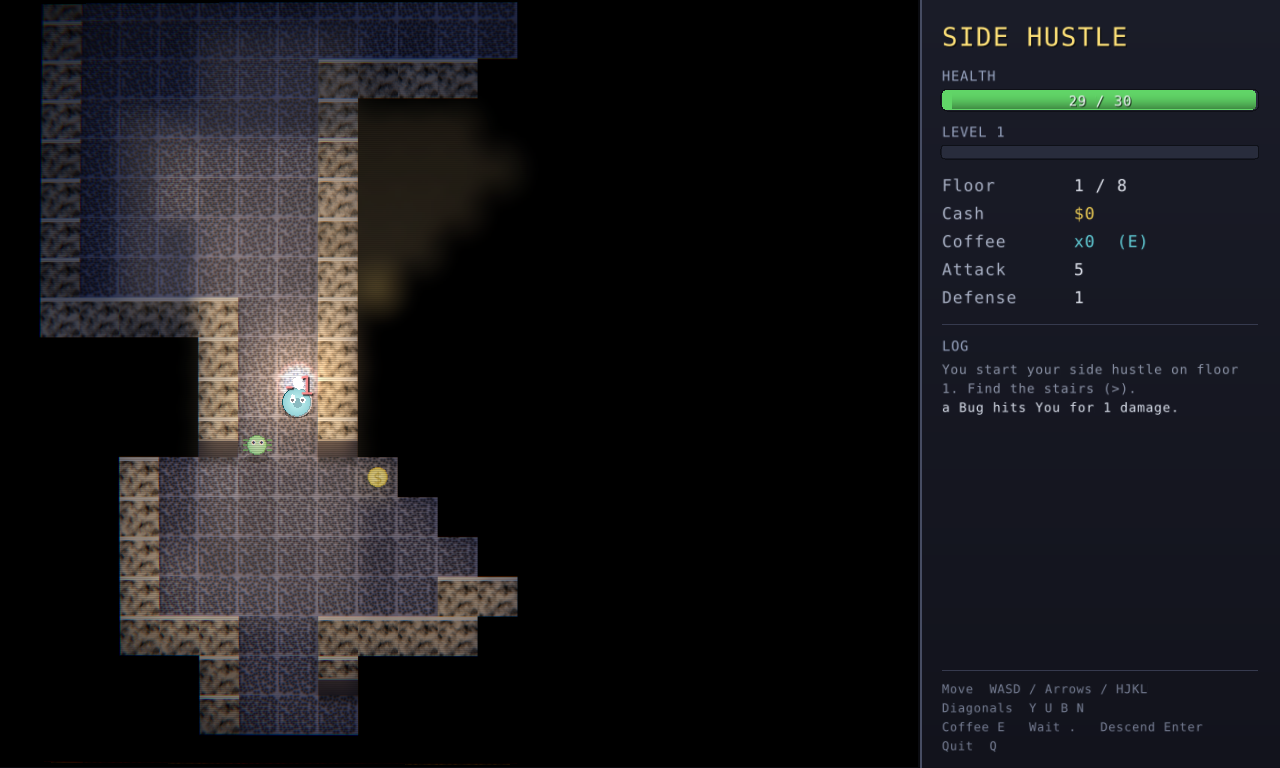
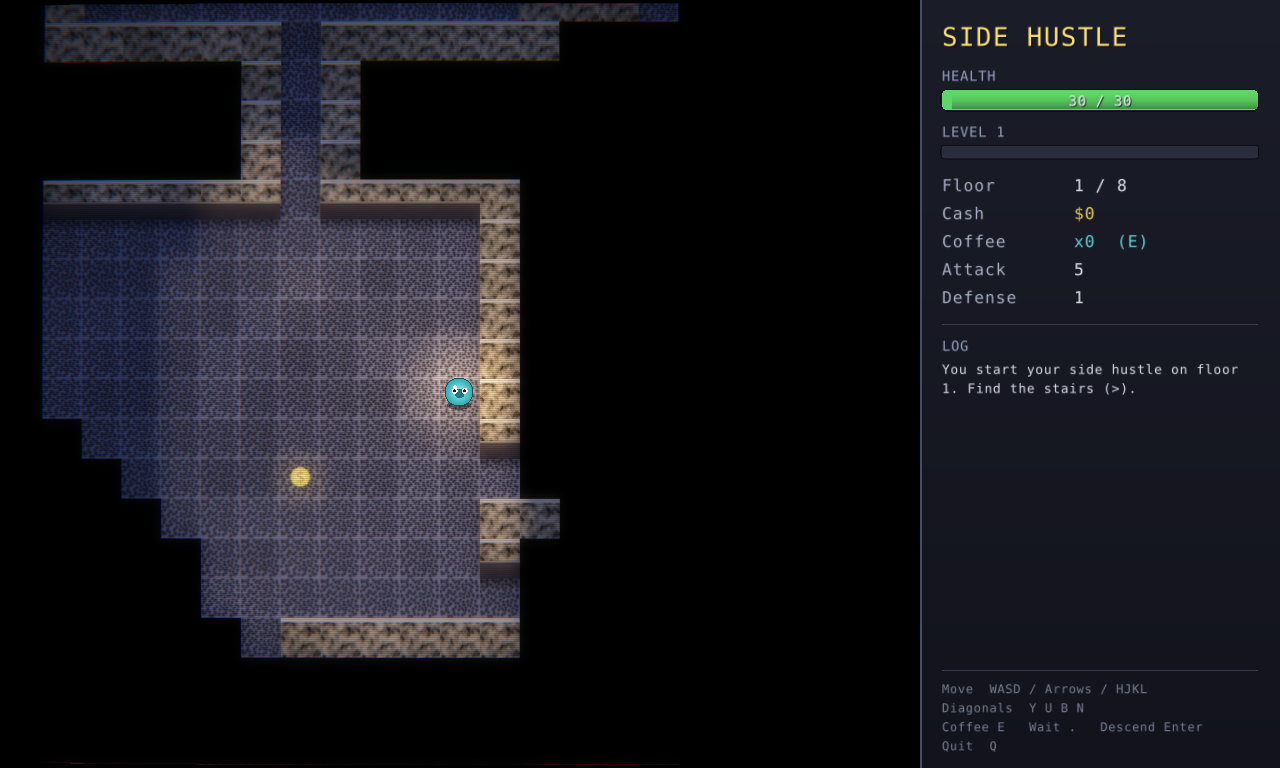
Normal-mapped per-pixel lighting (next-tier relief)
Floors and walls now have true directional relief, not flat radial light:
- Derive tangent-space normal maps from the procedural noise heightfields
  (central-difference, edge-wrapping so they stay tileable)
- New normals render pass; entities get a flat normal so they aren't shaded by
  the floor's relief
- Composite shader samples the normal buffer and accumulates directional
  shading from up to 8 lights (player torch + nearest item/stairs/boss),
  gated by the FOV-occluded light buffer so walls still cast shadow
- Bloom now sources the lit scene (black in the void) instead of the raw light
  buffer, so glow no longer floats in empty space; brighter base term + tuned
  bloom strength

Verified under Xvfb + software GL on the Linux build and the actual Windows
.exe (Wine): the normal-mapping shader compiles and renders; relief catches the
torch with a smooth per-pixel falloff. Screenshots refreshed in docs/.

Claude-Session: https://claude.ai/code/session_01XcquTdv454QKbRbk74ebB8

Changed region(s): [[0.0312, 0.0, 0.5312, 0.9688], [0.75, 0.4688, 0.9062, 0.5625], [0.9375, 0.4688, 0.9688, 0.5]]

diff --git a/gui/Main.cpp b/gui/Main.cpp
@@ -51,19 +51,38 @@ const char* kCompositeFS = R"GLSL(
 in vec2 fragTexCoord;
 in vec4 fragColor;
 uniform sampler2D texture0;   // scene albedo
-uniform sampler2D lightTex;   // additive light buffer
+uniform sampler2D lightTex;   // additive (FOV-occluded) light buffer
+uniform sampler2D normalTex;  // surface normals (tangent space)
 uniform vec3 ambient;
+uniform vec2 res;
+uniform vec3  lightPos[8];     // xy = pixel position, z = height above the plane
+uniform float lightRad[8];
+uniform float lightInt[8];
+uniform int   lightCount;
 out vec4 finalColor;
 void main() {
     vec3 albedo = texture(texture0, fragTexCoord).rgb;
     vec3 light  = texture(lightTex, fragTexCoord).rgb;
-    vec3 lit = albedo * (ambient + light);
+    vec3 N = normalize(texture(normalTex, fragTexCoord).rgb * 2.0 - 1.0);
+
+    // Per-light directional (normal-mapped) relief term.
+    vec2 fp = fragTexCoord * res;
+    float relief = 0.0;
+    for (int i = 0; i < lightCount; ++i) {
+        vec2 dxy = lightPos[i].xy - fp;
+        float dist = length(dxy);
+        float at = clamp(1.0 - dist / lightRad[i], 0.0, 1.0);
+        at *= at;
+        vec3 L = normalize(vec3(dxy, lightPos[i].z));
+        relief += at * max(0.0, dot(N, L)) * lightInt[i];
+    }
+    // The flat (FOV-occluded) light gates the relief so walls still cast shadow.
+    vec3 lit = albedo * (ambient + light * (0.78 + 0.70 * relief));
+
     // filmic-ish tonemap for soft highlights
     lit = (lit * (2.2 * lit + 0.55)) / (lit * (2.0 * lit + 1.0) + 0.18);
-    // saturation lift
     float l = dot(lit, vec3(0.299, 0.587, 0.114));
     lit = mix(vec3(l), lit, 1.14);
-    // vignette
     vec2 d = fragTexCoord - 0.5;
     float vig = smoothstep(0.95, 0.35, length(d));
     lit *= mix(0.5, 1.0, vig);
@@ -124,12 +143,13 @@ void main() {
 // Globals (render resources)
 // ===========================================================================
 Font gFont{};
-Texture2D gFloorTex{}, gWallTex{}, gLightTex{};
+Texture2D gFloorTex{}, gWallTex{}, gLightTex{}, gFloorNrm{}, gWallNrm{};
 Shader gComposite{}, gBlur{}, gPost{};
 int gLocLightTex = 0, gLocAmbient = 0, gLocDir = 0;
 int gLocPostRes = 0, gLocPostTime = 0;
+int gLocNormalTex = 0, gLocCompRes = 0, gLocLightPos = 0, gLocLightRad = 0, gLocLightInt = 0, gLocLightCount = 0;
 
-RenderTexture2D gScene{}, gLight{}, gLit{}, gBloomA{}, gBloomB{}, gComposed{};
+RenderTexture2D gScene{}, gLight{}, gLit{}, gBloomA{}, gBloomB{}, gComposed{}, gNormal{};
 int gRtW = 0, gRtH = 0;
 constexpr int kBloomDiv = 3; // bloom buffers at 1/3 res
 
@@ -597,11 +617,41 @@ Game::Command dir_to_cmd(Vec2 d) {
 }
 
 // ---- procedural textures & render targets ----------------------------------
+// Derive a tangent-space normal map from a grayscale height image (Sobel-ish
+// central differences, wrapping at the edges so it stays tileable).
+Texture2D height_to_normal(const Image& src, float strength) {
+    Color* px = LoadImageColors(src);
+    const int w = src.width, h = src.height;
+    auto lum = [&](int x, int y) {
+        x = ((x % w) + w) % w; y = ((y % h) + h) % h;
+        const Color c = px[y * w + x];
+        return (0.299f * c.r + 0.587f * c.g + 0.114f * c.b) / 255.0f;
+    };
+    Image out = GenImageColor(w, h, C(128, 128, 255));
+    for (int y = 0; y < h; ++y)
+        for (int x = 0; x < w; ++x) {
+            const float dx = (lum(x - 1, y) - lum(x + 1, y)) * strength;
+            const float dy = (lum(x, y - 1) - lum(x, y + 1)) * strength;
+            float nx = dx, ny = dy, nz = 1.0f;
+            const float il = 1.0f / std::sqrt(nx * nx + ny * ny + nz * nz);
+            nx *= il; ny *= il; nz *= il;
+            ImageDrawPixel(&out, x, y, C((int)((nx * 0.5f + 0.5f) * 255),
+                                         (int)((ny * 0.5f + 0.5f) * 255),
+                                         (int)((nz * 0.5f + 0.5f) * 255)));
+        }
+    UnloadImageColors(px);
+    Texture2D t = LoadTextureFromImage(out);
+    SetTextureFilter(t, TEXTURE_FILTER_BILINEAR);
+    UnloadImage(out);
+    return t;
+}
+
 void make_textures() {
     Image f = GenImageCellular(128, 128, 11);   // stone tiling for floors
     ImageColorBrightness(&f, 40);
     gFloorTex = LoadTextureFromImage(f);
     SetTextureFilter(gFloorTex, TEXTURE_FILTER_BILINEAR);
+    gFloorNrm = height_to_normal(f, 2.4f);
     UnloadImage(f);
 
     Image w = GenImagePerlinNoise(128, 128, 0, 0, 5.0f); // rough rock for walls
@@ -609,6 +659,7 @@ void make_textures() {
     ImageColorContrast(&w, 25);
     gWallTex = LoadTextureFromImage(w);
     SetTextureFilter(gWallTex, TEXTURE_FILTER_BILINEAR);
+    gWallNrm = height_to_normal(w, 3.6f);
     UnloadImage(w);
 
     Image l = GenImageGradientRadial(192, 192, 0.10f, WHITE, C(255, 255, 255, 0));
@@ -621,11 +672,14 @@ void ensure_targets(int w, int h) {
     if (gRtW != 0) {
         UnloadRenderTexture(gScene); UnloadRenderTexture(gLight); UnloadRenderTexture(gLit);
         UnloadRenderTexture(gBloomA); UnloadRenderTexture(gBloomB); UnloadRenderTexture(gComposed);
+        UnloadRenderTexture(gNormal);
     }
     gScene = LoadRenderTexture(w, h);
     gLight = LoadRenderTexture(w, h);
     gLit = LoadRenderTexture(w, h);
     gComposed = LoadRenderTexture(w, h);
+    gNormal = LoadRenderTexture(w, h);
+    SetTextureFilter(gNormal.texture, TEXTURE_FILTER_BILINEAR);
     gBloomA = LoadRenderTexture(w / kBloomDiv, h / kBloomDiv);
     gBloomB = LoadRenderTexture(w / kBloomDiv, h / kBloomDiv);
     SetTextureFilter(gLight.texture, TEXTURE_FILTER_BILINEAR);
@@ -653,6 +707,12 @@ int main() {
     gPost = LoadShaderFromMemory(nullptr, kPostFS);
     gLocLightTex = GetShaderLocation(gComposite, "lightTex");
     gLocAmbient = GetShaderLocation(gComposite, "ambient");
+    gLocNormalTex = GetShaderLocation(gComposite, "normalTex");
+    gLocCompRes = GetShaderLocation(gComposite, "res");
+    gLocLightPos = GetShaderLocation(gComposite, "lightPos");
+    gLocLightRad = GetShaderLocation(gComposite, "lightRad");
+    gLocLightInt = GetShaderLocation(gComposite, "lightInt");
+    gLocLightCount = GetShaderLocation(gComposite, "lightCount");
     gLocDir = GetShaderLocation(gBlur, "dir");
     gLocPostRes = GetShaderLocation(gPost, "res");
     gLocPostTime = GetShaderLocation(gPost, "time");
@@ -791,6 +851,28 @@ int main() {
             // (player drawn on top after compositing so its hue stays crisp)
             EndTextureMode();
 
+            // ---- Pass 1b: surface normals (for per-pixel relief lighting) ----
+            BeginTextureMode(gNormal);
+            ClearBackground(C(128, 128, 255)); // flat normal (+Z)
+            for (int wy = y0; wy <= y1; ++wy)
+                for (int wx = x0; wx <= x1; ++wx) {
+                    const Vec2 w{wx, wy};
+                    if (!game->map().in_bounds(w) || !game->map().at(w).explored) continue;
+                    const Texture2D& nrm = game->map().at(w).type == sh::TileType::Wall ? gWallNrm : gFloorNrm;
+                    DrawTexturePro(nrm, {0, 0, (float)nrm.width, (float)nrm.height},
+                                   {(float)sx(wx), (float)sy(wy), (float)kTile, (float)kTile}, {0, 0}, 0, WHITE);
+                }
+            // flat normals under entities so they aren't lit by the floor's relief
+            for (const auto& it : game->items())
+                if (!it.taken && game->map().in_bounds(it.pos) && game->map().at(it.pos).visible)
+                    DrawCircleV(tile_center(it.pos.x, it.pos.y, camx, camy), kTile * 0.32f, C(128, 128, 255));
+            for (std::size_t i = 0; i < game->monsters().size(); ++i) {
+                const auto& m = game->monsters()[i];
+                if (m.alive && game->map().in_bounds(m.pos) && game->map().at(m.pos).visible)
+                    DrawCircleV(tile_center(anim.monR[i].x, anim.monR[i].y, camx, camy), kTile * 0.34f, C(128, 128, 255));
+            }
+            EndTextureMode();
+
             // ---- Pass 2: light buffer (FOV-accurate: one soft light per visible tile) ----
             const float flick = 0.86f + 0.14f * std::sin(anim.time * 11.0f) * std::sin(anim.time * 6.3f);
             BeginTextureMode(gLight);
@@ -827,12 +909,43 @@ int main() {
             EndBlendMode();
             EndTextureMode();
 
-            // ---- Pass 3: composite (albedo * (ambient + light) + grade) ----
+            // ---- Pass 3: composite (albedo * (ambient + normal-mapped light) + grade) ----
+            // Gather up to 8 directional lights for relief shading (torch + nearest points).
+            struct Lt { Vector2 p; float rad, inten, z; };
+            std::vector<Lt> lts;
+            const Vector2 ptc = tile_center(anim.playerR.x, anim.playerR.y, camx, camy);
+            lts.push_back({ptc, kTile * 5.5f, 1.15f, kTile * 1.25f}); // torch
+            for (const auto& it : game->items())
+                if (!it.taken && game->map().at(it.pos).visible)
+                    lts.push_back({tile_center(it.pos.x, it.pos.y, camx, camy), kTile * 2.4f, 0.5f, kTile * 0.8f});
+            if (game->map().in_bounds(game->stairs()) && game->map().at(game->stairs()).visible)
+                lts.push_back({tile_center(game->stairs().x, game->stairs().y, camx, camy), kTile * 3.0f, 0.55f, kTile * 0.8f});
+            for (const auto& m : mons)
+                if (m.alive && m.glyph == '&' && game->map().at(m.pos).visible)
+                    lts.push_back({tile_center(m.pos.x, m.pos.y, camx, camy), kTile * 3.5f, 0.6f, kTile * 0.9f});
+            if (lts.size() > 8)
+                std::partial_sort(lts.begin() + 1, lts.begin() + 8, lts.end(), [&](const Lt& a, const Lt& b) {
+                    auto d2 = [&](const Lt& l) { return (l.p.x - ptc.x) * (l.p.x - ptc.x) + (l.p.y - ptc.y) * (l.p.y - ptc.y); };
+                    return d2(a) < d2(b);
+                });
+            const int nL = std::min<int>(8, (int)lts.size());
+            float lp[24] = {0}, lr[8] = {0}, li[8] = {0};
+            for (int i = 0; i < nL; ++i) {
+                lp[i * 3] = lts[i].p.x; lp[i * 3 + 1] = lts[i].p.y; lp[i * 3 + 2] = lts[i].z;
+                lr[i] = lts[i].rad; li[i] = lts[i].inten;
+            }
             const float ambient[3] = {0.16f, 0.19f, 0.30f};
+            const float compRes[2] = {(float)mapAreaW, (float)H};
             BeginTextureMode(gLit);
             BeginShaderMode(gComposite);
             SetShaderValueTexture(gComposite, gLocLightTex, gLight.texture);
+            SetShaderValueTexture(gComposite, gLocNormalTex, gNormal.texture);
             SetShaderValue(gComposite, gLocAmbient, ambient, SHADER_UNIFORM_VEC3);
+            SetShaderValue(gComposite, gLocCompRes, compRes, SHADER_UNIFORM_VEC2);
+            SetShaderValueV(gComposite, gLocLightPos, lp, SHADER_UNIFORM_VEC3, nL);
+            SetShaderValueV(gComposite, gLocLightRad, lr, SHADER_UNIFORM_FLOAT, nL);
+            SetShaderValueV(gComposite, gLocLightInt, li, SHADER_UNIFORM_FLOAT, nL);
+            SetShaderValue(gComposite, gLocLightCount, &nL, SHADER_UNIFORM_INT);
             DrawTexture(gScene.texture, 0, 0, WHITE);
             EndShaderMode();
             EndTextureMode();
@@ -841,7 +954,8 @@ int main() {
             const float bw = (float)gBloomA.texture.width, bh = (float)gBloomA.texture.height;
             BeginTextureMode(gBloomA);
             ClearBackground(BLACK);
-            DrawTexturePro(gLight.texture, {0, 0, (float)mapAreaW, -(float)H}, {0, 0, bw, bh}, {0, 0}, 0, WHITE);
+            // Bloom the lit scene (black in the void) so glow never floats in empty space.
+            DrawTexturePro(gLit.texture, {0, 0, (float)mapAreaW, -(float)H}, {0, 0, bw, bh}, {0, 0}, 0, WHITE);
             EndTextureMode();
             const float dh[2] = {1.0f / bw, 0.0f}, dv[2] = {0.0f, 1.0f / bh};
             BeginTextureMode(gBloomB);
@@ -864,7 +978,7 @@ int main() {
             ClearBackground(BLACK);
             DrawTextureRec(gLit.texture, {0, 0, (float)mapAreaW, (float)H}, {0, 0}, WHITE);
             BeginBlendMode(BLEND_ADDITIVE);
-            DrawTexturePro(gBloomA.texture, {0, 0, bw, bh}, {0, 0, (float)mapAreaW, (float)H}, {0, 0}, 0, Fade(WHITE, 0.45f));
+            DrawTexturePro(gBloomA.texture, {0, 0, bw, bh}, {0, 0, (float)mapAreaW, (float)H}, {0, 0}, 0, Fade(WHITE, 0.34f));
             EndBlendMode();
             EndTextureMode();
         }
@@ -960,9 +1074,11 @@ int main() {
     if (gRtW != 0) {
         UnloadRenderTexture(gScene); UnloadRenderTexture(gLight); UnloadRenderTexture(gLit);
         UnloadRenderTexture(gBloomA); UnloadRenderTexture(gBloomB); UnloadRenderTexture(gComposed);
+        UnloadRenderTexture(gNormal);
     }
     UnloadShader(gComposite); UnloadShader(gBlur); UnloadShader(gPost);
     UnloadTexture(gFloorTex); UnloadTexture(gWallTex); UnloadTexture(gLightTex);
+    UnloadTexture(gFloorNrm); UnloadTexture(gWallNrm);
     UnloadFont(gFont);
     CloseWindow();
     return 0;

diff --git a/README.md b/README.md
@@ -51,9 +51,12 @@ The renderer is a small **deferred-style 2D lighting pipeline** with GLSL shader
 - **Procedural HD textures** — stone floors (cellular noise) and rough rock walls
   (Perlin noise) generated at startup, plus 2.5D wall blocks with lit top edges
   and dark front faces for real depth.
-- **Per-pixel dynamic lighting** — a light buffer is accumulated with one soft
-  light per *visible* tile (so walls actually occlude light), plus point lights
-  for items, stairs, the boss, combat sparks, and a flickering player torch.
+- **Normal-mapped per-pixel dynamic lighting** — normal maps are derived from
+  the noise heightfields so floors and walls catch the torch with real relief.
+  A light buffer is accumulated with one soft light per *visible* tile (so walls
+  actually occlude light), and the composite shader adds directional shading
+  from up to 8 lights (a flickering player torch + nearest item/stairs/boss
+  lights), gated by the occluded light so shadows are preserved.
 - **Composite shader** — `albedo × (ambient + light)` with a filmic tonemap,
   saturation lift, and vignette; explored-but-unseen tiles fall back to a cool
   ambient (the classic warm-light / cool-shadow look).
